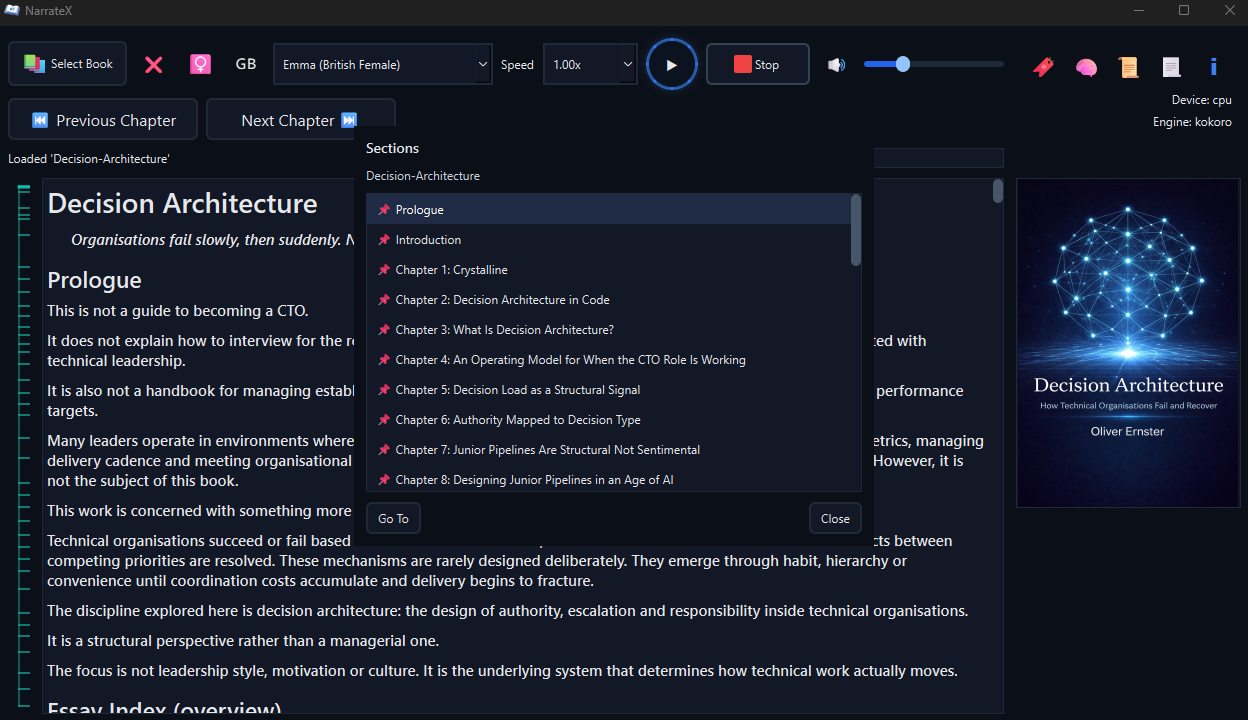
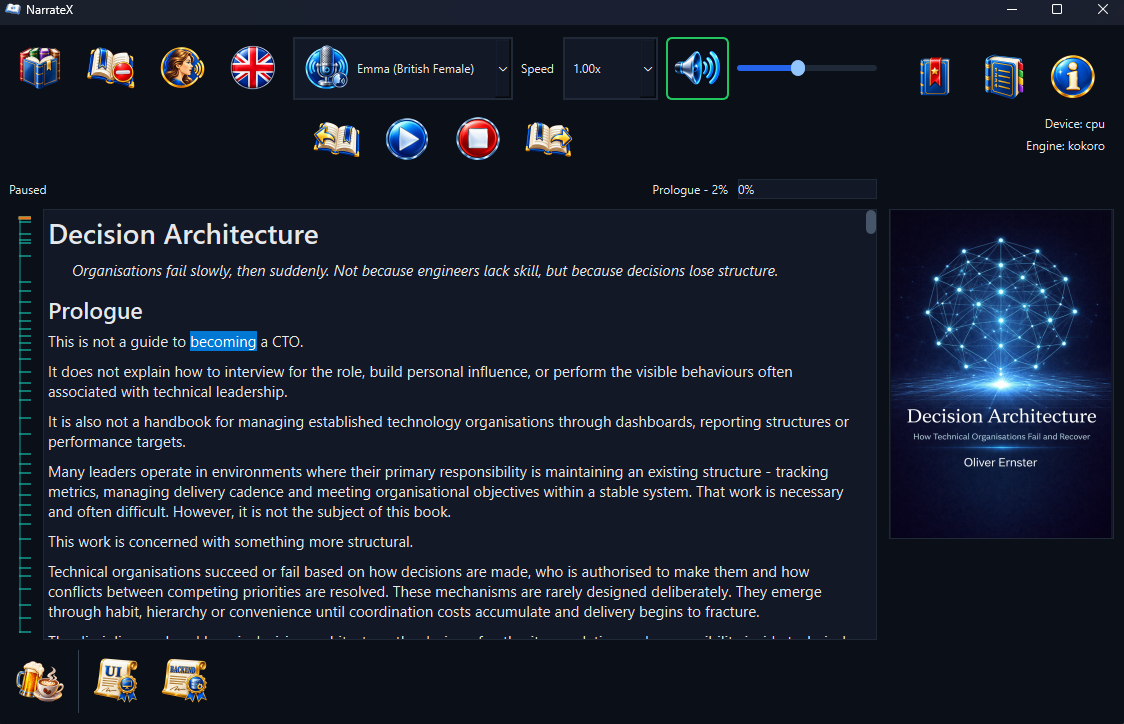
Replace the screenshots and describe what they show
New README and site screenshots. The README image is sized to the new picture's proportions and both images carry alt text naming what is on screen.

diff --git a/docs/index.html b/docs/index.html
@@ -98,7 +98,7 @@
     </section>
 
     <div class="screenshots">
-        <img src="site-images/NarrateX4.png" loading="lazy" decoding="async" alt="NarrateX screenshot: teal chapter spine, the Sections dialog and the voice picker during structured audio playback">
+        <img src="site-images/NarrateX4.png" loading="lazy" decoding="async" alt="NarrateX screenshot: the reading pane with the spoken word highlighted, the teal chapter spine, the book cover, the voice picker and the picture buttons along the top and foot of the window">
     </div>
 
     <div class="section">

diff --git a/README.md b/README.md
@@ -125,7 +125,7 @@ enforced by structural tests at every test run. See
 
 ## Screenshot
 
-<img width="1050" height="606" src="images/narratex.png" />
+<img width="1050" height="678" src="images/narratex.png" alt="NarrateX reading a book with the Sections dialog open over the reading pane" />
 
 ## Install and run
 
